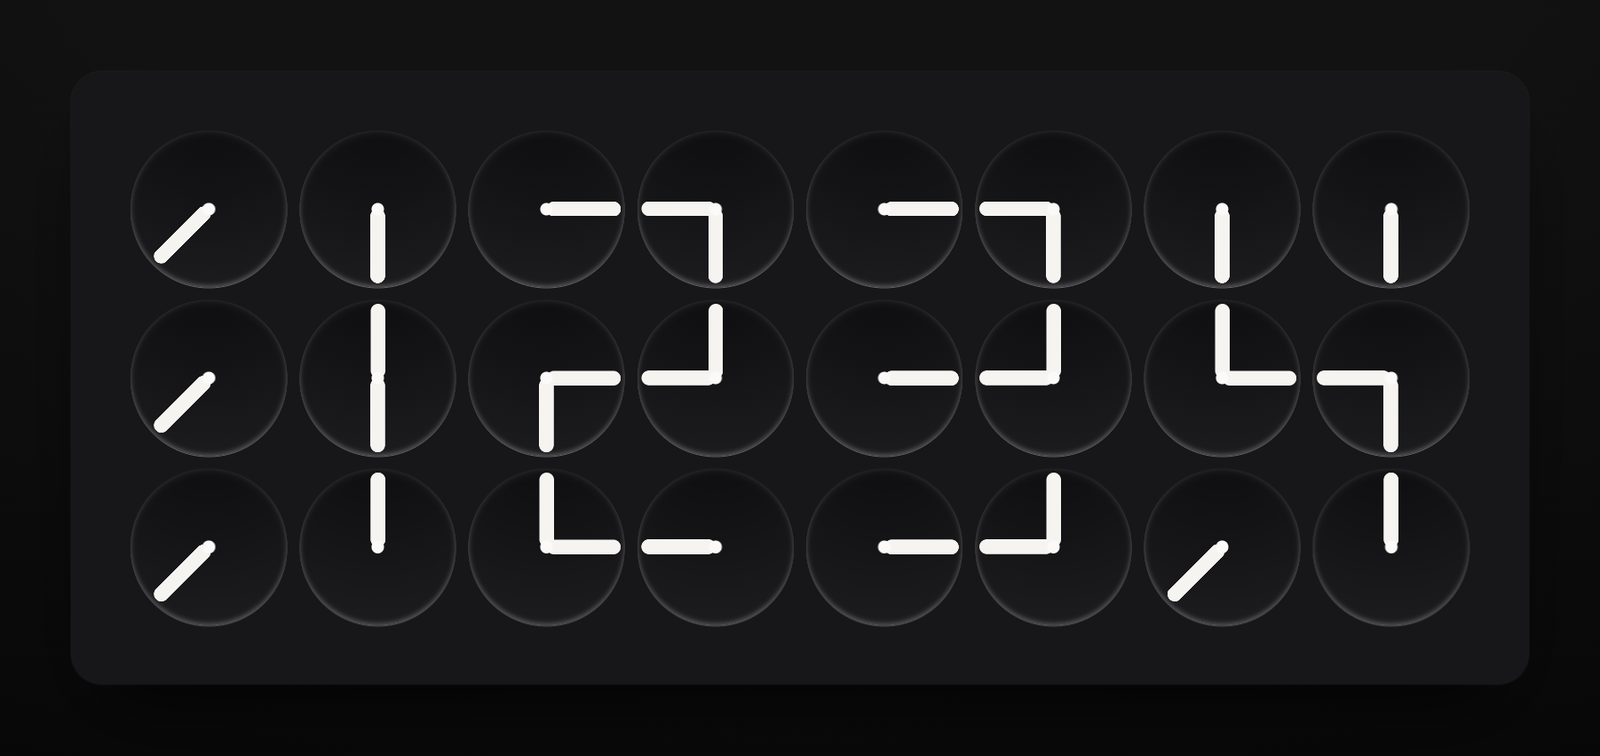
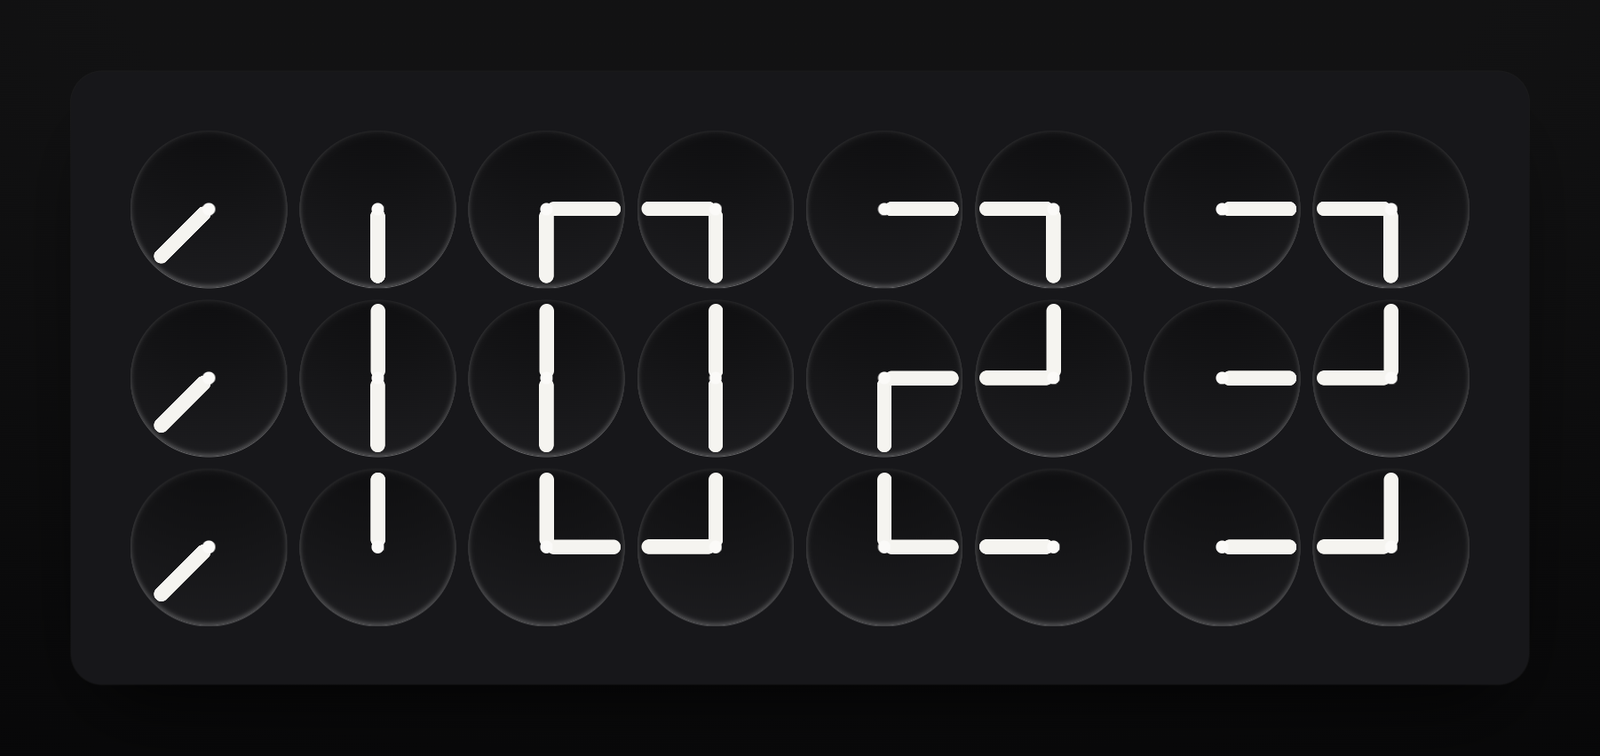
feat: 整圈扫动拉长到 30 秒（?turn= 可调）+ 叠加秒表与右下角开关

diff --git a/index.html b/index.html
@@ -23,7 +23,10 @@
                     0 3px 10px rgba(46, 38, 26, 0.06),
                     0 0 0 1px rgba(46, 38, 26, 0.05);
     --ease: cubic-bezier(0.62, 0.02, 0.28, 1);
-    --turn: 900ms;
+    --turn: 30s;          /* 一圈走完用掉半分钟：0-30s 在转，30-60s 静止 */
+    --cell: min(9.7vw, 22.4vh);
+    --cell: min(9.7vw, 22.4svh);
+    --pad: calc(var(--cell) * 0.38);
   }
 
   @media (prefers-color-scheme: dark) {
@@ -57,10 +60,9 @@
     -webkit-font-smoothing: antialiased;
   }
 
+  .stage { position: relative; display: grid; place-items: center; }
+
   .clock {
-    --cell: min(9.7vw, 22.4vh);
-    --cell: min(9.7vw, 22.4svh);
-    --pad: calc(var(--cell) * 0.38);
     display: grid;
     grid-template-columns: repeat(8, var(--cell));
     grid-template-rows: repeat(3, var(--cell));
@@ -118,16 +120,95 @@
     background: var(--pin);
   }
 
+  /* 秒表读数：宽屏时落在面板下沿的内边距里，窄屏时退到面板下方 */
+  .timer {
+    position: absolute;
+    left: 50%;
+    top: calc(100% + var(--pad) * 0.5);
+    transform: translateX(-50%);
+    font: 300 clamp(13px, calc(var(--cell) * 0.22), 110px) / 1 ui-monospace, "SF Mono", Menlo, Consolas, monospace;
+    font-variant-numeric: tabular-nums;
+    letter-spacing: -0.01em;
+    color: var(--ink);
+    opacity: 0.4;
+    white-space: nowrap;
+    cursor: pointer;
+    user-select: none;
+    -webkit-tap-highlight-color: transparent;
+    transition: opacity 0.2s var(--ease);
+  }
+
+  .timer:hover { opacity: 0.66; }
+  .timer__cs { margin-left: 0.06em; font-size: 0.62em; opacity: 0.72; }
+  .timer[hidden] { display: none; }
+
+  @media (min-width: 780px) and (min-height: 460px) {
+    .timer { top: auto; bottom: calc(var(--pad) * 0.16); }
+  }
+
+  .toggle {
+    position: fixed;
+    right: max(14px, env(safe-area-inset-right));
+    bottom: max(12px, env(safe-area-inset-bottom));
+    padding: 9px;
+    border: 0;
+    background: none;
+    color: var(--ink);
+    opacity: 0.28;
+    cursor: pointer;
+    transition: opacity 0.25s var(--ease);
+    -webkit-tap-highlight-color: transparent;
+  }
+
+  .toggle:hover,
+  .toggle:focus-visible { opacity: 0.85; }
+  .toggle[aria-pressed="true"] { opacity: 0.5; }
+  .toggle:focus-visible { outline: 1px solid currentColor; outline-offset: 4px; border-radius: 999px; }
+
+  .toggle__track {
+    position: relative;
+    display: block;
+    width: 34px;
+    height: 19px;
+    border: 1px solid currentColor;
+    border-radius: 999px;
+  }
+
+  .toggle__knob {
+    position: absolute;
+    top: 50%;
+    left: 3px;
+    width: 11px;
+    height: 11px;
+    margin-top: -5.5px;
+    border-radius: 50%;
+    background: currentColor;
+    transition: transform 0.22s var(--ease);
+  }
+
+  .toggle[aria-pressed="true"] .toggle__knob { transform: translateX(15px); }
+
   /* before the first sweep the hands are set without transition */
-  .boot .pivot { transition: none; }
+  .boot .pivot,
+  .no-anim .pivot { transition: none; }
 
   @media (prefers-reduced-motion: reduce) {
     :root { --turn: 240ms; }
+    .toggle__knob { transition: none; }
   }
 </style>
 </head>
 <body>
-  <main class="clock boot" id="clock" role="img" aria-label="ClockClock"></main>
+  <div class="stage">
+    <main class="clock boot" id="clock" role="img" aria-label="ClockClock"></main>
+    <div class="timer" id="timer" hidden title="点击开始 / 暂停，双击归零">
+      <span class="timer__main">00:00</span><span class="timer__cs">.00</span>
+    </div>
+  </div>
+
+  <button class="toggle" id="toggle" type="button" aria-pressed="false" aria-label="秒表" title="秒表">
+    <span class="toggle__track"><span class="toggle__knob"></span></span>
+  </button>
 
 <script>
 (() => {
@@ -210,9 +291,16 @@
     document.title = readable;
   }
 
-  const frozen = new URLSearchParams(location.search).get('at');
+  const params = new URLSearchParams(location.search);
+  const frozen = params.get('at');
   const still = matchMedia('(prefers-reduced-motion: reduce)');
   const paused = frozen && /^([01]\d|2[0-3])[0-5]\d$/.test(frozen);   // ?at=HHMM
+
+  // ?turn=<seconds> — how long one whole sweep takes (default 30, i.e. half a minute)
+  const turn = Number(params.get('turn'));
+  if (turn > 0 && !still.matches) {
+    document.documentElement.style.setProperty('--turn', `${Math.min(60, Math.max(0.2, turn))}s`);
+  }
 
   let timer = 0;
 
@@ -241,11 +329,86 @@
       if (document.hidden) {
         clearTimeout(timer);
       } else {
+        // back from the background: jump instead of spending another half minute turning
+        clock.classList.add('no-anim');
         paint(new Date(), false);
+        void clock.offsetWidth;
+        requestAnimationFrame(() => clock.classList.remove('no-anim'));
         schedule();
       }
     });
   }
+  /* ---------- 秒表（开关控制，叠在面板上） ---------- */
+  const timerEl = document.getElementById('timer');
+  const timerMain = timerEl.querySelector('.timer__main');
+  const timerCs = timerEl.querySelector('.timer__cs');
+  const toggleEl = document.getElementById('toggle');
+  const STORE = 'clockclock.stopwatch';
+
+  let spent = 0;        // ms accumulated while stopped
+  let since = 0;        // performance.now() at the last start
+  let running = false;
+  let rafId = 0;
+  let shown = false;
+
+  const pref = {
+    // 第一次打开就叠上秒表；之后记住用户自己拨的开关位置
+    get() { try { const v = localStorage.getItem(STORE); return v === null ? true : v === '1'; } catch (e) { return true; } },
+    set(on) { try { localStorage.setItem(STORE, on ? '1' : '0'); } catch (e) { /* private mode */ } }
+  };
+
+  function drawTimer() {
+    const cs = Math.floor((spent + (running ? performance.now() - since : 0)) / 10);
+    timerMain.textContent =
+      String(Math.floor(cs / 6000)).padStart(2, '0') + ':' +
+      String(Math.floor(cs / 100) % 60).padStart(2, '0');
+    timerCs.textContent = '.' + String(cs % 100).padStart(2, '0');
+  }
+
+  function frame() { drawTimer(); rafId = requestAnimationFrame(frame); }
+
+  function startTimer() {
+    if (running || !shown) return;
+    running = true;
+    since = performance.now();
+    rafId = requestAnimationFrame(frame);
+  }
+
+  function pauseTimer() {
+    if (!running) return;
+    spent += performance.now() - since;
+    running = false;
+    cancelAnimationFrame(rafId);
+    drawTimer();
+  }
+
+  function resetTimer() {
+    cancelAnimationFrame(rafId);
+    running = false;
+    spent = 0;
+    drawTimer();
+  }
+
+  function showTimer(on) {
+    shown = on;
+    timerEl.hidden = !on;
+    toggleEl.setAttribute('aria-pressed', String(on));
+    pref.set(on);
+    if (on) { resetTimer(); startTimer(); } else { pauseTimer(); }
+  }
+
+  toggleEl.addEventListener('click', () => showTimer(!shown));
+  timerEl.addEventListener('click', () => (running ? pauseTimer() : startTimer()));
+  timerEl.addEventListener('dblclick', resetTimer);
+  document.addEventListener('keydown', (e) => {
+    if (e.metaKey || e.ctrlKey || e.altKey) return;
+    const key = e.key.toLowerCase();
+    if (key === 's') showTimer(!shown);
+    else if (key === ' ' && shown) { e.preventDefault(); running ? pauseTimer() : startTimer(); }
+    else if (key === 'r' && shown) resetTimer();
+  });
+
+  showTimer(pref.get());
 })();
 </script>
 </body>

diff --git a/README.md b/README.md
@@ -1,6 +1,8 @@
 # ClockClock 24 · 网页版
 
-24 个表盘、48 根指针拼出 HH:MM。整点跳变时，所有指针顺时针扫过一圈再落到新数字上。
+24 个表盘、48 根指针拼出 HH:MM。
+
+每分钟开头，48 根指针用 **30 秒**慢慢转到新时间上，剩下 30 秒静止——一半时间在转，一半时间可读。右下角开关可以叠一块秒表。
 
 单文件 HTML，零依赖零构建，双击就能跑。
 
@@ -19,12 +21,16 @@ python3 -m http.server 8788                      # 或者起个静态服务，ht
 
 | 参数 / 行为 | 说明 |
 | --- | --- |
-| `?at=HHMM` | 冻结在指定时间，不做秒级跳变（截图、做壁纸、逐位核对字形用） |
-| 每分钟 | 到分钟边界时 48 根指针统一顺时针扫一圈，落到新时间 |
-| 首次加载 | 指针从 12 点位置扫到当前时间 |
+| `?turn=<秒>` | 一圈扫动用多久，默认 `30`（占一分钟的一半），可填 0.2–60 |
+| `?at=HHMM` | 冻结在指定时间，不做分钟跳变（截图、壁纸、逐位核对字形用） |
+| 每分钟 | 到分钟边界时 48 根指针全部顺时针扫动，落到新时间 |
+| 首次加载 | 指针从 12 点位置扫到当前时间（同样用 `--turn` 的时长） |
+| 秒表开关（右下角） | 打开即出现秒表并从 0 开始跑；状态记在 localStorage |
+| 秒表读数 | 点一下开始 / 暂停，双击归零 |
+| 快捷键 | `S` 开关秒表，`空格` 开始 / 暂停，`R` 归零 |
 | 亮 / 暗 | 跟随系统 `prefers-color-scheme`，无需开关 |
-| 尺寸 | 表盘按 `vw`/`svh` 自动缩放，宽屏铺满宽度，竖屏等比例缩小 |
-| 动效偏好 | 系统开了「减弱动态效果」时取消整圈扫动，只做短位移 |
+| 尺寸 | 表盘按 `vw`/`svh` 自动缩放；宽屏时秒表读数落在面板下沿，窄屏退到面板下方 |
+| 动效偏好 | 系统开了「减弱动态效果」时不扫整圈，只做短位移 |
 | 标签页标题 | 跟随当前时间为 `HH:MM` |
 
 ## 字形怎么来的
@@ -46,9 +52,10 @@ python3 -m http.server 8788                      # 或者起个静态服务，ht
 ## 实现要点
 
 - **只顺时针**：每根指针记一个累积角度，目标角取「顺时针最小增量」再加 360°，所以永远向前转，不会倒着回摆。
+- **慢转**：`transition-duration` 直接取 `--turn`（默认 30s），48 个 `.pivot` 各自合成一层，整圈扫动交给合成器，不掉帧。
 - **分钟对齐**：用 `setTimeout` 对齐到下一个整分边界（不是 `setInterval(1000)`），页面切回前台时立即重画并重新对表。
-- **动画**：`transform: rotate()` + 单条 `transition`，48 个 `.pivot` 各自合成一层；`cubic-bezier(0.62,0.02,0.28,1)` 给出机械式起停。
-- **首帧**：先关掉 transition 落位，再开 transition 扫到当前时间，避免「从 0 点乱飞」。
+- **切回前台不补转**：从后台回来时临时关掉 transition 直接落位，避免又转半分钟才读得出时间。
+- **首帧**：先关掉 transition 落位，再开 transition 扫到当前时间。
 
 ## 文件
 
